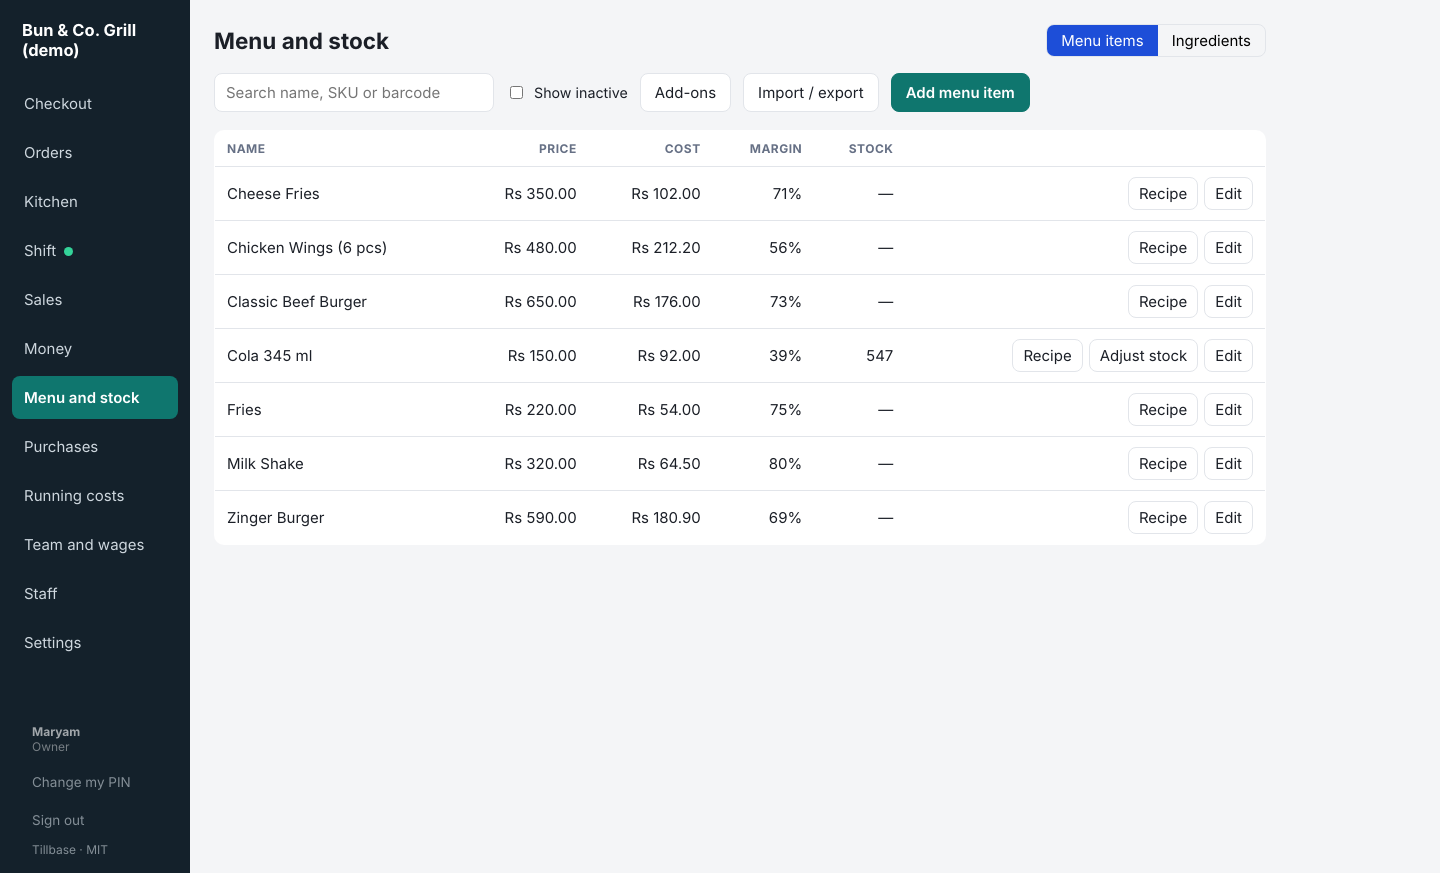
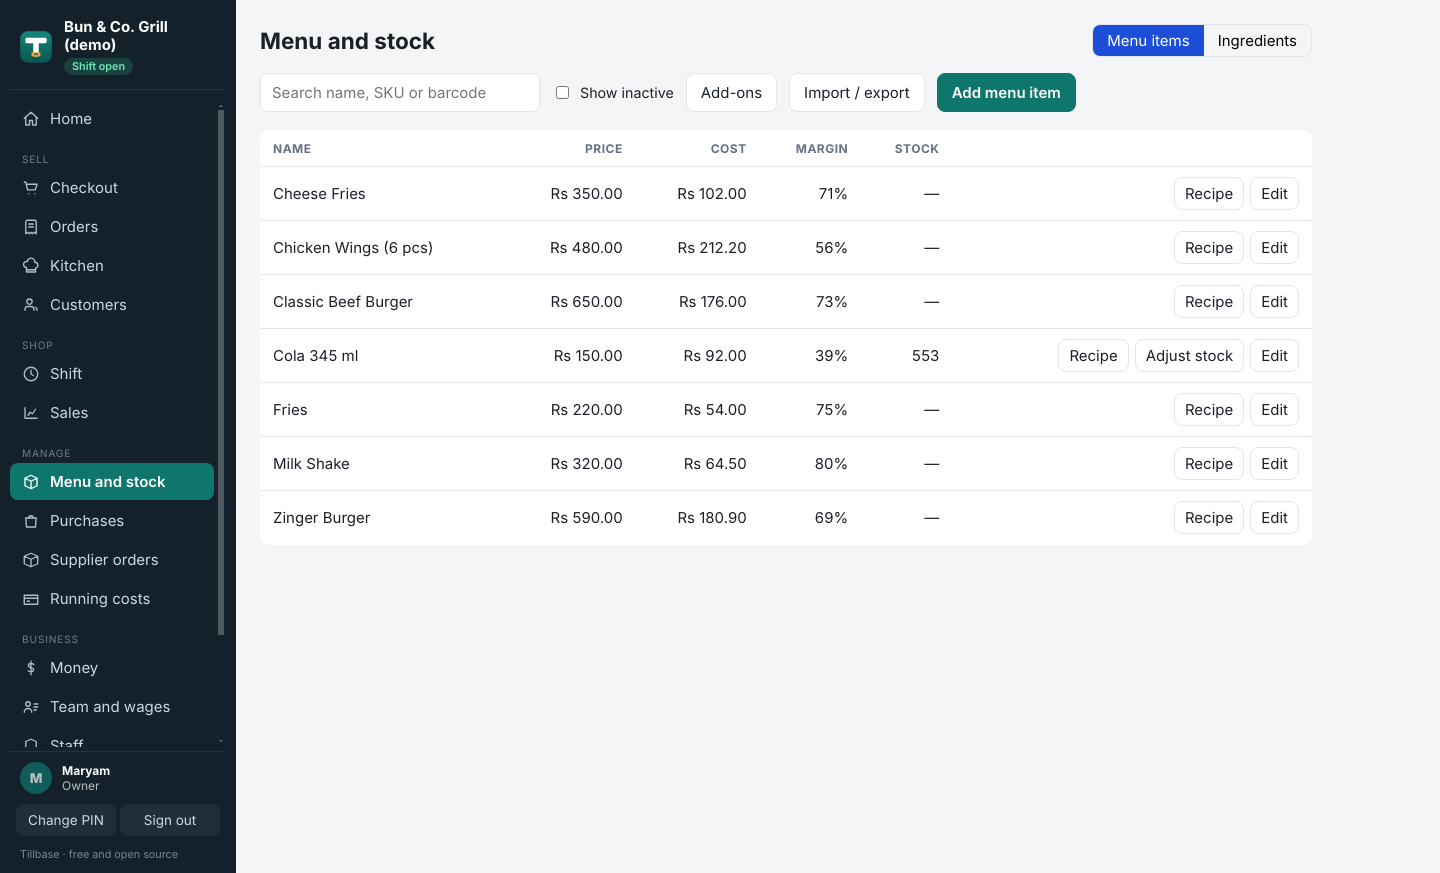
Release v0.6.0
Claude-Session: https://claude.ai/code/session_01VBEvNuGaPBCNPKuiwuMuts

diff --git a/README.md b/README.md
@@ -20,7 +20,7 @@ No subscription. No per-user fees. No internet needed.
 
 </div>
 
-> **Status: early development (v0.4).** Everything listed under "What it does" is built and tested. **Tillbase is not yet approved for FBR, PRA or SRB tax-authority integration.** Do not rely on it for tax filing until that exists.
+> **Status: early but usable (v0.6).** Everything listed under "What it does" is built and tested. Pharmacy-specific features (batches, expiry blocking, prescriptions) are **not built yet**. **Tillbase is not yet approved for FBR, PRA or SRB tax-authority integration.** Do not rely on it for tax filing until that exists.
 
 ## Why Tillbase
 
@@ -44,6 +44,8 @@ See an honest side-by-side with other free and paid systems in **[docs/COMPARISO
 2. Each release lists SHA-256 checksums so you can check the download.
 3. The installers are not code-signed yet (signing certificates cost money, see [Support the project](#support-the-project)). Windows shows "unknown publisher": choose **More info, then Run anyway**. On macOS, right-click the app and choose **Open** the first time.
 
+**Updating:** install the newer version over the old one; your data is kept. The app tells the owner when a newer stable release exists (it opens this page, nothing installs by itself).
+
 Prefer to build it yourself? See [Quick start](#quick-start).
 
 ## What it does
@@ -60,6 +62,8 @@ Prefer to build it yourself? See [Quick start](#quick-start).
 - **Customers and loyalty:** find a customer by phone number at the till or on an order (or add one on the spot), points earned on every sale at a rate you set (default 1 point per 100.00), points used as a discount, and a prepaid wallet. History, points and wallet are on the Customers screen; the receipt shows points used, points earned and balances. Delivery orders fill in the address from the customer.
 - **Orders** for fast-food and restaurants: a token number that restarts each day, dine-in, takeaway and delivery, table or customer details, add-ons such as extra cheese (with their own price and ingredient cost), several orders held open at once, paid in one tap. Delivery orders can carry a delivery charge, which is shown before payment and counted as income. A dine-in group can **split the bill by items** into separate bills, each with its own token, and pay separately. Every edit is saved immediately.
 - **Kitchen** board and tickets: only new items are sent; orders move new, preparing, ready, served; late orders turn red. Only a manager can change or cancel food already in the kitchen.
+- **Customer credit (khata):** sell on account with a credit limit, record repayments (cash goes into the drawer count), see who owes you, print statements, write off with a reason.
+- **Receipt printing:** direct ESC/POS printing to a network thermal printer (58/80 mm) for receipts, kitchen tickets and statements, with the shop logo and a cash drawer kick. Browser printing still works.
 - **Sales:** today's totals by payment method, top products, recent sales, reprint, void (stock is restored exactly).
 
 **Knowing your numbers**
@@ -71,7 +75,9 @@ Prefer to build it yourself? See [Quick start](#quick-start).
 *The pictures are real screenshots of a made-up demo shop, taken by `npm run screenshots`.*
 
 - **Menu and stock:** menu items and ingredients with units. A recipe gives each dish a real cost from what you actually paid (weighted-average cost), and selling a dish uses up its ingredients. Food-cost percentage and margin per item. Low-stock warnings.
-- **Purchases:** record what you buy and what you still owe each supplier, and pay it down later.
+- **Purchases and supplier orders:** record what you buy and what you owe each supplier, and pay it down later. Place an order with a supplier and receive it in one or several deliveries at the agreed prices; each delivery books stock and what you owe.
+- **Home:** a daily overview for owners and managers: today's sales and profit, open orders, low stock, latest sales and one-tap shortcuts.
+- **Accountant export:** Excel-ready CSV files for any date range (owner only).
 - **Running costs:** rent, electricity, gas and more, in categories you can extend. Wastage (waste, spoilage, expiry, damage) is valued at cost.
 - **Team and wages:** clock in and out; monthly, daily or hourly pay with overtime; advances recovered at payroll; payslips paid from the till drawer if you like.
 - **Money (owner only):** profit or loss, where every rupee of sales went (ingredients, waste, wages, running costs, profit), break-even sales, per-item margins, busy hours, stock value and what you owe.
@@ -80,7 +86,7 @@ Prefer to build it yourself? See [Quick start](#quick-start).
 **Running the shop safely**
 - **Staff and roles:** PIN login with owner, manager and cashier roles. Permissions are enforced in the app's main process, not just hidden in the screen. PINs are salted hashes, wrong PINs lock the account for 30 seconds, and the till signs out after 5 idle minutes. Profit and payroll are owner-only.
 - **Shifts:** open with a cash float, record cash in and out, count the drawer blind at close, see short, over or exact. Business payments taken from the drawer are counted.
-- **Backups:** a daily copy of your data, and another after each shift closes. The newest 14 are kept next to the database.
+- **Backups:** a daily copy of your data, and another after each shift closes (the newest 14 are kept next to the database). Choose a second place such as a USB drive or a synced folder, and restore from a checked backup on the Backups screen.
 - **Settings:** store name, currency, number format, receipt width and footer.
 
 ## Quick start
@@ -142,21 +148,20 @@ Amounts are in minor units and tax rates in basis points: `1800` means 18.00%.
 - [x] Fast-food orders, add-ons, delivery fees, split bills, kitchen board
 - [x] Menu CSV import and export; daily backups
 - [x] Customers, loyalty points and a wallet
+- [x] Customer credit (khata), direct thermal printing, supplier purchase orders
+- [x] Accountant export, second-place backups and restore
+- [x] Home screen, shop logo, sponsor line and update notice
 - [x] Installers for Windows, macOS and Linux; tests on all three
 
-**In review now** (open pull requests)
-- [ ] Sponsor banner and update notice
-- [ ] Accountant export (Excel-ready CSV files)
-- [ ] Second-place backups and restore
-
 **Next**
-- [ ] First-run setup: country and currency, business mode, business-day cutoff
-- [ ] Customer credit (khata): sell on account, record repayments
-- [ ] Direct thermal printing and cash drawer; shift Z-report
-- [ ] Supplier purchase orders
+- [ ] First-run setup and onboarding: owner account, business type and business profiles (retail, restaurant, fast food, custom)
+- [ ] Owner analytics: charts, date filters, A4 report printing
+- [ ] Pharmacy workflows: batches and expiry tracking, expired-stock blocking, prescription records (not started)
+- [ ] Country and currency setup, business-day cutoff
+- [ ] Returns and a shift Z-report
 - [ ] Urdu interface and receipts
-- [ ] Signed installers and auto-update
-- [ ] Several terminals on one network, then multi-branch sync
+- [ ] Signed installers and in-app auto-update
+- [ ] Several terminals on one network, then optional encrypted online access ([design](docs/ONLINE-ACCESS.md))
 
 Full detail in [docs/ROADMAP.md](docs/ROADMAP.md).
 
@@ -198,7 +203,7 @@ Be honest in code and in the UI: do not claim tax-authority approval, and do not
 Tillbase has no company behind it and no investors. It runs on volunteer time and free tools. If it helps your shop, you can help it stay free:
 
 - **Sponsor or donate:** see the *Sponsor* button at the top of this repository.
-- **Sponsor a banner:** a small clearly labelled banner can run on a few non-critical screens (never checkout, payment or login). No tracking, no scripts, no adult, gambling or alcohol ads. Rules and how to apply are in [`ads/README.md`](ads/README.md); how outside ad networks are judged is in [docs/ADS-PROVIDERS.md](docs/ADS-PROVIDERS.md). Owners can switch the banner off in Settings.
+- **Sponsor a banner:** a small clearly labelled banner can run on a few non-critical screens (never checkout, payment or login). No tracking, no scripts, no adult, gambling or alcohol ads. The banner is clearly labelled and shown on Home only. Rules and how to apply are in [`ads/README.md`](ads/README.md); how outside ad networks are judged is in [docs/ADS-PROVIDERS.md](docs/ADS-PROVIDERS.md). Owners can switch the banner off in Settings.
 - **Contribute:** code, translations (Urdu first), testing in a real shop, or bug reports all count.
 
 Money raised goes first to a code-signing certificate (removes the "unknown publisher" warning), then a website and download hosting.

diff --git a/docs/ROADMAP.md b/docs/ROADMAP.md
@@ -10,7 +10,7 @@ Commercial POS products in Pakistan are sold as monthly subscriptions per branch
 |---|---|---|
 | Price | PKR 2,999 / 5,999 / 9,999 per month per branch | Free, MIT licensed |
 | Inventory, recipes, COGS | Growth plan and above | Included |
-| Kitchen display, HR/payroll, supplier ledger, financials | Pro plan only | Planned, included |
+| Kitchen display, HR/payroll, supplier ledger, financials | Pro plan only | Included (built; see below) |
 | Extra terminal / extra user beyond 5 | PKR 1,000 / PKR 500 per month each | Unlimited |
 | Tax-authority compliance | PKR 2,000 per month add-on | Planned, free (see the compliance note) |
 | Multi-branch | Listed as "coming soon" | Planned |
@@ -33,6 +33,11 @@ Source for the competitor facts: [pricing](https://www.granetpro.com/pricing.htm
 - [x] Khata: sell on account, credit limits, repayments through the shift, owes-you list and printable statements
 - [x] Customers with loyalty points and a prepaid wallet: phone search at the till and on orders, points earned per sale (rate set on the Customers screen) and used as a pre-tax discount, wallet top-up and spend, an append-only ledger that voids reverse, history and spend totals (owner only), points and wallet on the receipt
 - [x] CSV import and export of menu items, with a preview of every change before anything is saved (ingredients and recipes are not included)
+- [x] Supplier purchase orders: order, receive in one or several deliveries, booked as normal purchases at the agreed prices
+- [x] Export for your accountant: Excel-ready CSV files for any date range
+- [x] Backups to a second place (USB or synced folder) and checked restore
+- [x] Home screen and grouped menu, shop logo, "Powered by Tillbase" receipt line, PIN boxes that match the PIN length
+- [x] Sponsor line on Home (off unless a reviewed sponsor exists; owner can switch it off) and an update notice that opens the official download page. No outside ad network is enabled.
 - [x] Business suite, slice 1: ingredients and recipes with real cost of goods, purchases with weighted-average cost and supplier payables, wastage valued at cost, running costs, attendance and payroll (monthly, daily, hourly, overtime, advances), profit and loss with break-even and per-item margins, business payments from the till drawer, daily automatic backups
 
 ## Audit notes (November 2026)
@@ -48,7 +53,7 @@ Staff and shifts (done), menu CSV import and export (done). Next: first-run curr
 Delivery fees and splitting a bill by items are done. Still to do: floor plan, rider tracking, combos, kitchen stations, a customer-facing token screen.
 
 **Phase 4: back office** (recipes, costs, purchases, payroll and profit and loss are done)
-Still to do: purchase orders, expiry tracking, supplier ledger statements, recurring expenses, accountant export.
+Purchase orders and the accountant export are done. Still to do: expiry tracking, supplier ledger statements, recurring expenses.
 
 **Phase 5: more than one till and more than one shop**
 Several terminals on one local network, then multi-branch with sync when online, plus an owner dashboard.

diff --git a/CHANGELOG.md b/CHANGELOG.md
@@ -4,6 +4,10 @@ All notable changes to Tillbase are listed here, newest first. The format follow
 
 ## [Unreleased]
 
+## [0.6.0] - 2026-11-22
+
+A big usability release: a new Home screen and menu, shop logos, customer credit (khata), supplier orders, direct receipt printing, and an optional sponsor line and update notice. Existing shop data is upgraded automatically (database migrations 7 to 9); a backup is taken at start-up, as always.
+
 ### Added
 - Sponsor banner: one slim, clearly labelled line at the bottom of the Home screen, read from the public `ads/manifest.json`. Text and a small still picture only, never at checkout, payment or login, nothing about the shop is sent, and it disappears when offline or when there is no sponsor. Owners can turn it off in Settings (`TILLBASE_NO_ADS=1` turns it off for a whole machine). Outside ad networks stay disabled; see `docs/ADS-PROVIDERS.md`.
 - Update notice: the owner sees "Tillbase X is available" on Home when a newer stable release exists, with What is new, Remind me later and Update now (opens the official download page; nothing is installed silently and a sale is never interrupted). Settings shows the version and a Check for updates button. Works offline (it just shows nothing) and backs off if GitHub rate-limits.

diff --git a/docs/COMPARISON.md b/docs/COMPARISON.md
@@ -33,6 +33,7 @@ We could not find reliable public information about **LogicPOS**, so it is left 
 
 - No multi-branch or multi-terminal sync yet.
 - No tax-authority invoices yet.
+- No pharmacy-specific features yet (batches, expiry blocking, prescriptions).
 - Direct printing is for network (Ethernet/Wi-Fi) printers only; USB and Bluetooth printers use the system print window for now.
 - Younger: fewer shops have used it. Please try it and tell us what breaks.
 
